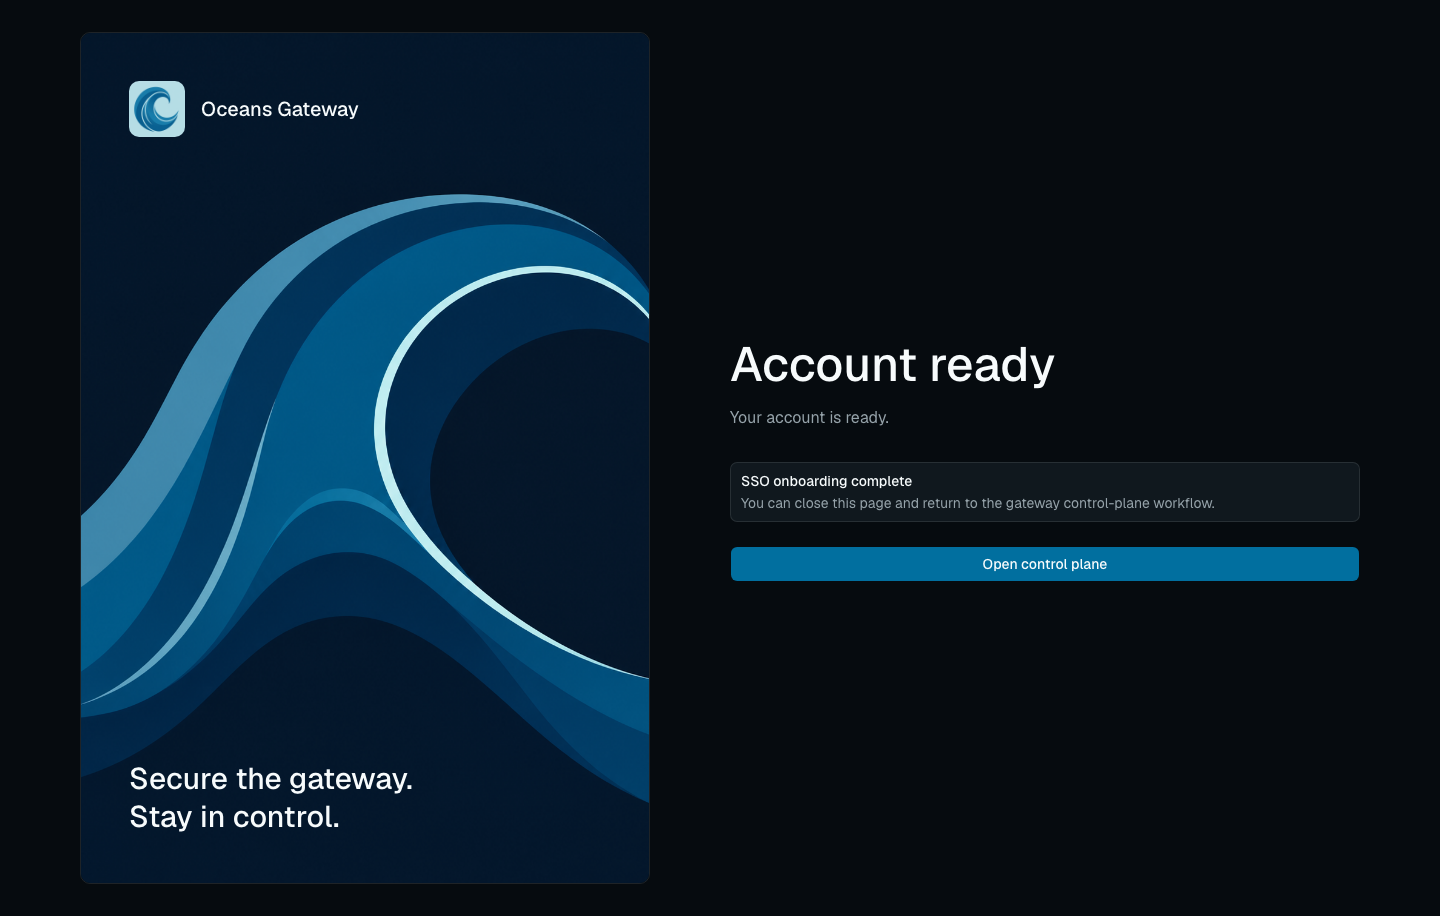
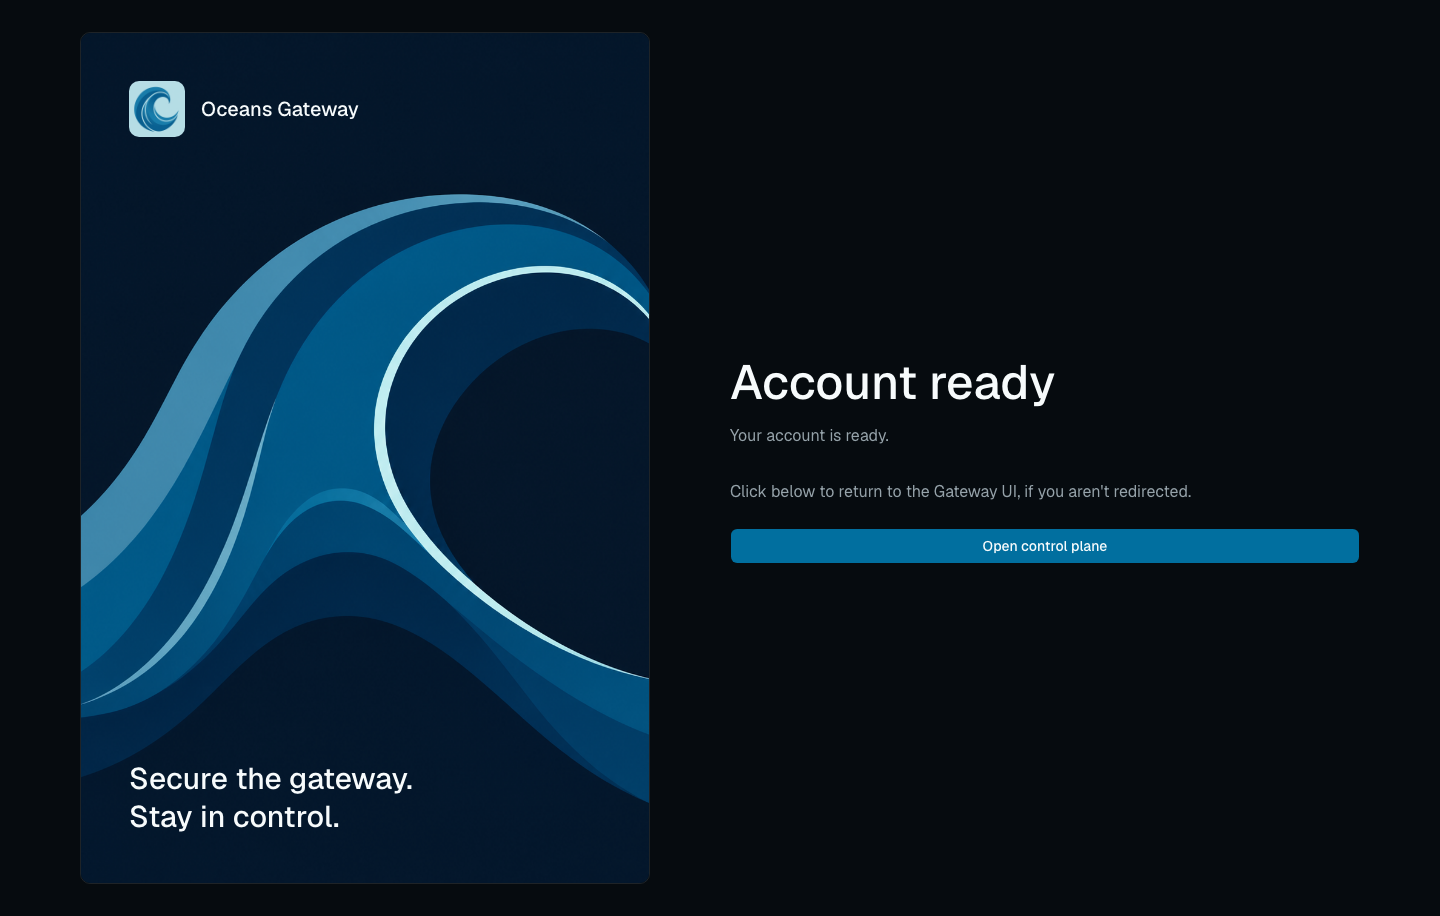
fix(admin-ui): complete SSO redirect feedback

Changed region(s): [[0.5, 0.5197, 0.9688, 0.6419], [0.5, 0.3668, 0.75, 0.4891]]

diff --git a/crates/admin-ui/web/src/test/routes/account-ready-route.test.tsx b/crates/admin-ui/web/src/test/routes/account-ready-route.test.tsx
@@ -1,17 +1,25 @@
-import { render, screen } from '@testing-library/react'
-import { beforeEach, describe, expect, it, vi } from 'vitest'
+import { cleanup, render, screen } from '@testing-library/react'
+import { afterEach, beforeEach, describe, expect, it, vi } from 'vitest'
 
 const routeMock = {
   useSearch: vi.fn(),
 }
+const navigateMock = vi.fn()
 
 vi.mock('@tanstack/react-router', () => ({
   createFileRoute: () => () => routeMock,
+  useNavigate: () => navigateMock,
 }))
 
 describe('AccountReadyPage', () => {
   beforeEach(() => {
     routeMock.useSearch.mockReturnValue({})
+    navigateMock.mockReset()
+  })
+
+  afterEach(() => {
+    cleanup()
+    vi.useRealTimers()
   })
 
   it('links back to the control plane after onboarding', async () => {
@@ -28,5 +36,21 @@ describe('AccountReadyPage', () => {
       'href',
       '/admin',
     )
+    expect(navigateMock).not.toHaveBeenCalled()
+  })
+
+  it('redirects SSO onboarding to the gateway UI after showing the success state', async () => {
+    vi.useFakeTimers()
+    routeMock.useSearch.mockReturnValue({ mode: 'oauth' })
+    const { AccountReadyPage } = await import('@/routes/account-ready')
+
+    render(<AccountReadyPage />)
+
+    expect(screen.getByRole('link', { name: 'Open control plane' })).toBeInTheDocument()
+    expect(navigateMock).not.toHaveBeenCalled()
+
+    await vi.runAllTimersAsync()
+
+    expect(navigateMock).toHaveBeenCalledWith({ to: '/' })
   })
 })

diff --git a/crates/admin-ui/web/src/routes/account-ready.tsx b/crates/admin-ui/web/src/routes/account-ready.tsx
@@ -1,14 +1,34 @@
-import { createFileRoute } from '@tanstack/react-router'
+import { useEffect } from 'react'
+import { createFileRoute, useNavigate } from '@tanstack/react-router'
 
 import { AuthLayout } from '@/components/layout/auth-layout'
 import { Button } from '@/components/ui/button'
 
 export const Route = createFileRoute('/account-ready')({
+  validateSearch: (search: Record<string, unknown>) => ({
+    mode:
+      search.mode === 'oauth' || search.mode === 'oidc' || search.mode === 'password'
+        ? search.mode
+        : undefined,
+    email: typeof search.email === 'string' ? search.email : undefined,
+  }),
   component: AccountReadyPage,
 })
 
 export function AccountReadyPage() {
-  const search = Route.useSearch() as { email?: string }
+  const search = Route.useSearch()
+  const navigate = useNavigate()
+  const isSsoOnboarding = search.mode === 'oauth' || search.mode === 'oidc'
+
+  useEffect(() => {
+    if (!isSsoOnboarding) return
+
+    const redirectTimeout = window.setTimeout(() => {
+      void navigate({ to: '/' })
+    }, 1500)
+
+    return () => window.clearTimeout(redirectTimeout)
+  }, [isSsoOnboarding, navigate])
 
   return (
     <AuthLayout

diff --git a/crates/admin-ui/web/src/test/routes/login-route.test.tsx b/crates/admin-ui/web/src/test/routes/login-route.test.tsx
@@ -45,6 +45,14 @@ describe('login SSO errors', () => {
       'https://github.com/settings/emails',
     )
   })
+
+  it('provides a safe fallback for unknown provider errors', async () => {
+    const { ssoErrorMessage } = await import('@/routes/-login-messages')
+
+    expect(ssoErrorMessage('unexpected_provider_error')).toBe(
+      'SSO sign-in did not complete. Start sign-in again.',
+    )
+  })
 })
 
 describe('LoginPage', () => {
@@ -77,6 +85,18 @@ describe('LoginPage', () => {
     expect(screen.getByRole('link', { name: 'GitHub' })).toHaveAttribute(
       'href',
       'https://gateway.example/api/v1/auth/oauth/start?provider_key=github&redirect_to=%2Fadmin',
+    )
+  })
+
+  it('shows callback errors in an alert', async () => {
+    routeMock.useSearch.mockReturnValue({ sso_error: 'provider_failure' })
+    const { LoginPage } = await import('@/routes/login')
+
+    render(<LoginPage />)
+
+    expect(screen.getByRole('alert')).toHaveTextContent('SSO sign in failed')
+    expect(screen.getByRole('alert')).toHaveTextContent(
+      'The identity provider did not complete sign-in.',
     )
   })
 })

diff --git a/crates/admin-ui/web/src/routes/-login-messages.ts b/crates/admin-ui/web/src/routes/-login-messages.ts
@@ -16,6 +16,6 @@ export function ssoErrorMessage(code: string | undefined) {
     case 'identity_conflict':
       return 'A password account already exists for this email address.'
     default:
-      return undefined
+      return code ? 'SSO sign-in did not complete. Start sign-in again.' : undefined
   }
 }
